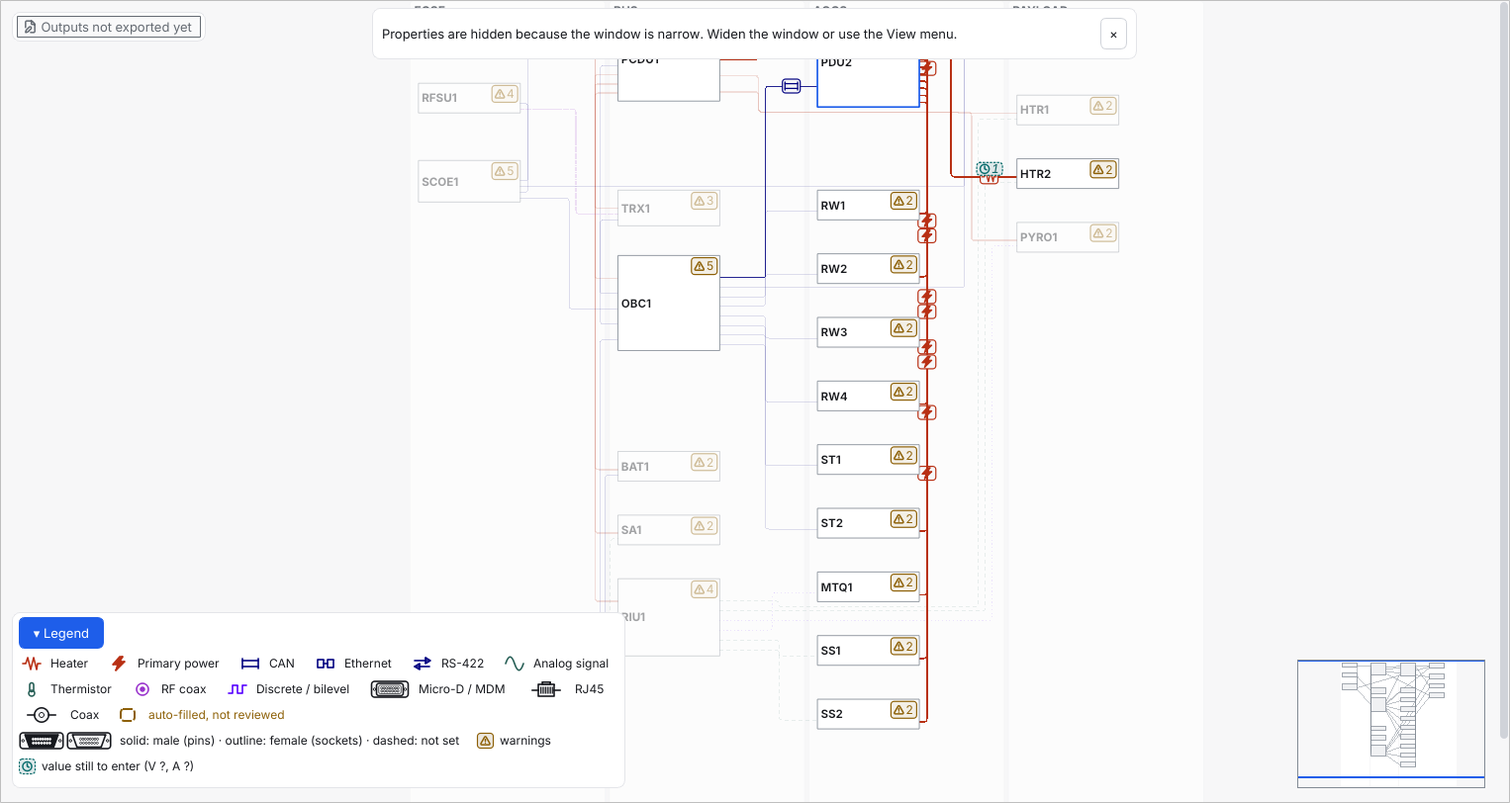
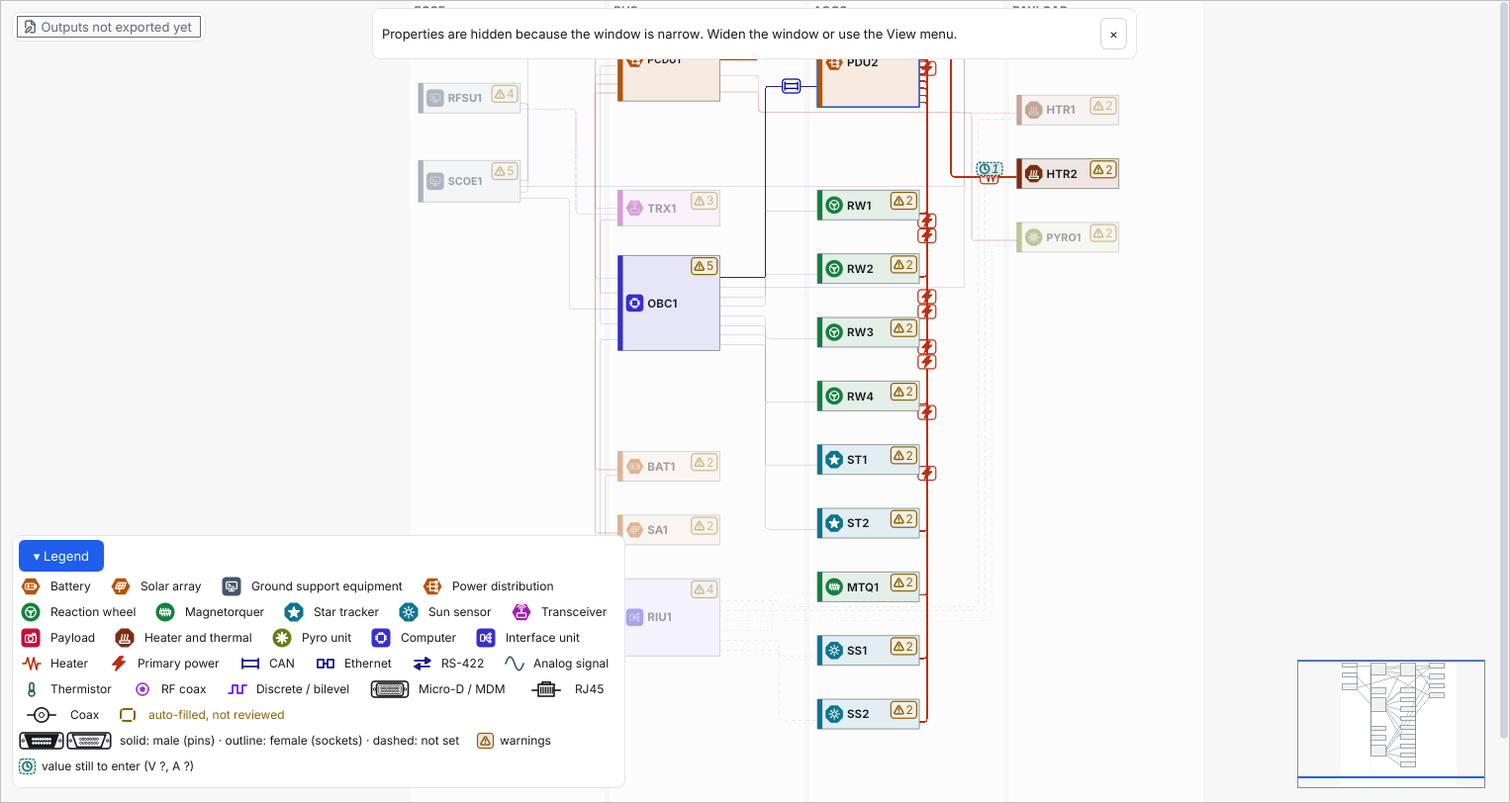
Document the device looks: manual page, key to the pictures, guide, changelog
New page "Telling devices apart" with the key to the pictures and colours, a
close-up of four cards and the rules the tool reads the kind by; the user guide,
the draw-the-design page, the flatsat page, the developer notes and the pictures
made by tools.flatsat_screenshots follow. Changelog entry under Unreleased.

Claude-Session: https://claude.ai/code/session_01K7PmjFJdKvkUGQzZA5G9xT

diff --git a/HarnessDesignStudio/src/harness_design_studio/resources/guide/index.html b/HarnessDesignStudio/src/harness_design_studio/resources/guide/index.html
@@ -87,7 +87,7 @@ harness-design-studio new wheel-link --template first-steps</code></pre>
 <p>Switching modes never changes your data.</p>
 <h3 id="reading-a-dense-diagram">Reading a dense diagram</h3>
 <p>A system with many devices has many links. The editor makes them readable in these ways:</p>
-<ul><li><strong>Pictures tell the kinds apart.</strong> A link carries the picture of its kind: a bolt for power, a ground symbol, a bus with end stops for CAN, two arrows for a differential pair (RS-422, LVDS), a bus with drops for RS-485, a node with branches for SpaceWire, two boxes for Ethernet, a sine wave for an analog signal, a square wave for a discrete signal, a spark for a pyro line, a ring for RF coax. A link with twisted-pair signals is drawn as two lines, a redundant link is dashed. The legend (button at the bottom left of the diagram; <strong>View &gt; Show legend</strong>) shows the pictures the project uses.</li><li><strong>Connectors are drawn as they look</strong>: a flange with screw holes and the shell in front of it: a tapered D for a D-sub, a rounded block for a Micro-D, a round shell, an RJ45 plug, a coax ring. The size and the dots follow the pin count, which is also written as a number. <strong>Gender is black or white</strong>: a male connector (pins) is drawn solid, a female connector (sockets) as an outline, and a connector whose gender is not set with a dashed outline; the legend says so. The harness drawings and the mating matrix state the gender of every cable connector in words. In Expert mode a dashed line splits the device into a left side and a darker right side (ports sit on the edge of their side), and every port reads from its edge inwards: the designator (J01), the connector picture and the pin count. In Guided mode a device shows its connectors as small pictures. What a link carries is drawn on the link.</li><li><strong>Numbers appear when they exist.</strong> A power link shows e.g. <code>28 V · 5 A</code> beside its picture, but only what somebody entered; nothing is filled in. In a diagram of more than 30 links the numbers show for the selected, focused or hovered link; <em>View &gt; Show all link labels</em> shows them everywhere. Hover a link to read its name, type, values and ends in words.</li><li><strong>Click a device or a link.</strong> Only its links stay in full colour; everything else fades. Click the empty background or press Escape to see everything again. This is the quickest way to answer "what is connected to this?".</li><li><strong>Show</strong> (the list at the right end of the Model tab bar, <em>All interfaces</em> by default; <strong>More &gt; Show only</strong> for the Systems engineer) fades everything except one signal class, one connector or one bundle. It can be combined with a selection.</li><li><strong>Links run in lines.</strong> Each link leaves on the edge that faces the device at its other end, goes sideways into the gutter between lanes, runs up or down in its own track, and enters the other device sideways. Links between the same two lanes run side by side, ordered so that they cross as little as possible.</li><li><strong>Arrange diagram</strong> (View menu, Ctrl+Shift+L, or the button at the right end of the Model tab bar; <strong>More</strong> for the Systems engineer) puts the devices in order and keeps room for each one: a device with many connectors is tall in Expert mode, and the devices around it make way. One undo step restores the old positions.</li></ul>
+<ul><li><strong>Pictures tell the kinds apart.</strong> A link carries the picture of its kind: a bolt for power, a ground symbol, a bus with end stops for CAN, two arrows for a differential pair (RS-422, LVDS), a bus with drops for RS-485, a node with branches for SpaceWire, two boxes for Ethernet, a sine wave for an analog signal, a square wave for a discrete signal, a spark for a pyro line, a ring for RF coax. A link with twisted-pair signals is drawn as two lines, a redundant link is dashed. The legend (button at the bottom left of the diagram; <strong>View &gt; Show legend</strong>) shows the pictures the project uses.</li><li><strong>Devices look like what they are.</strong> A device carries the picture of its kind in a badge at the left of its header (a cell for a battery, a wheel, a chip for a computer, a star for a star tracker, a dish for an antenna, a plug for ground support ...), a band of the colour of its family down its left edge, and a badge shape (square, circle, hexagon or octagon) for the family; zoomed out, a box has the same band and badge and a faint tint, so a diagram of 23 devices can be told apart at a glance. The tool reads the kind from the name of the device, then its ID (<code>BAT1</code>), its subsystem and the links it carries; a device it cannot place stays a plain outlined box. The tooltip and the Inspector say it in words (<em>Looks like: Battery (from the name Battery)</em>), and the legend lists the kinds in the diagram; to change a look, rename the device. Nothing is stored in the project and no written file changes (<code>docs/user-manual/telling-devices-apart.md</code>).</li><li><strong>Connectors are drawn as they look</strong>: a flange with screw holes and the shell in front of it: a tapered D for a D-sub, a rounded block for a Micro-D, a round shell, an RJ45 plug, a coax ring. The size and the dots follow the pin count, which is also written as a number. <strong>Gender is black or white</strong>: a male connector (pins) is drawn solid, a female connector (sockets) as an outline, and a connector whose gender is not set with a dashed outline; the legend says so. The harness drawings and the mating matrix state the gender of every cable connector in words. In Expert mode a dashed line splits the device into a left side and a darker right side (ports sit on the edge of their side), and every port reads from its edge inwards: the designator (J01), the connector picture and the pin count. In Guided mode a device shows its connectors as small pictures. What a link carries is drawn on the link.</li><li><strong>Numbers appear when they exist.</strong> A power link shows e.g. <code>28 V · 5 A</code> beside its picture, but only what somebody entered; nothing is filled in. In a diagram of more than 30 links the numbers show for the selected, focused or hovered link; <em>View &gt; Show all link labels</em> shows them everywhere. Hover a link to read its name, type, values and ends in words.</li><li><strong>Click a device or a link.</strong> Only its links stay in full colour; everything else fades. Click the empty background or press Escape to see everything again. This is the quickest way to answer "what is connected to this?".</li><li><strong>Show</strong> (the list at the right end of the Model tab bar, <em>All interfaces</em> by default; <strong>More &gt; Show only</strong> for the Systems engineer) fades everything except one signal class, one connector or one bundle. It can be combined with a selection.</li><li><strong>Links run in lines.</strong> Each link leaves on the edge that faces the device at its other end, goes sideways into the gutter between lanes, runs up or down in its own track, and enters the other device sideways. Links between the same two lanes run side by side, ordered so that they cross as little as possible.</li><li><strong>Arrange diagram</strong> (View menu, Ctrl+Shift+L, or the button at the right end of the Model tab bar; <strong>More</strong> for the Systems engineer) puts the devices in order and keeps room for each one: a device with many connectors is tall in Expert mode, and the devices around it make way. One undo step restores the old positions.</li></ul>
 <p>Zoomed far out, a device shows its ID and each kind of link its own dash pattern and a small picture; zoom in to see pictures and numbers.</p>
 <h3 id="marks-on-the-diagram">Marks on the diagram</h3>
 <ul><li><strong>Problems, warnings, values to enter, not checked.</strong> A device or link that has open findings shows a small badge with an icon and a count: problems, warnings, values still to enter (<em>V ? · A ?</em> on a power link), and <em>not checked</em>. Click a badge to select the object; its problems are in the Problems list. Hover a badge to read what it counts. Before the first check has finished every object shows <em>not checked</em>, so a clean card is never mistaken for a passed one.</li><li><strong>Locks.</strong> An object that a released harness holds shows a lock and the harness and revision (<em>W001 A</em>), and a faint tint. The tooltip says who locks it and what stays editable.</li><li><strong>Auto-filled.</strong> A card with connectors the tool chose shows a dashed <em>n auto</em> chip, in Guided mode too; hover it to read why they were chosen and that nobody has confirmed them yet.</li><li><strong>State of the harnesses.</strong> A chip in the top left of the diagram says <em>Harnesses out of date</em>, <em>not generated yet</em>, <em>Outputs out of date</em>, <em>not exported yet</em> or <em>up to date</em>.</li><li><strong>Card pictures and tags.</strong> A card shows a picture of its kind of device and the number of connectors (<em>12 conn</em>). FLIGHT or GROUND tags are a viewer setting: right-click a device and choose <strong>Tag zone … as</strong>; they are not saved in the project.</li></ul>

diff --git a/HarnessDesignStudio/docs/user-manual/telling-devices-apart.md b/HarnessDesignStudio/docs/user-manual/telling-devices-apart.md
@@ -1,0 +1,84 @@
+# Telling devices apart
+
+This page is about what a device looks like on the block diagram. Every device card has a picture of the kind of equipment it is (a battery, a reaction wheel, a computer ...), a colour for the family of that kind and a shape for the badge the picture sits in. You do not set any of it: the tool reads it from the name of the device. Nothing is stored in the project, and no written file changes (the block diagram that `export` writes, the exported picture of **Export diagram**, every output file and the model hash are as they were).
+
+## Contents
+
+- [Before you start](#before-you-start)
+- [What you see](#what-you-see)
+- [The key to the pictures](#the-key-to-the-pictures)
+- [How the tool decides what a device is](#how-the-tool-decides-what-a-device-is)
+- [Where the words are](#where-the-words-are)
+- [What it does not do](#what-it-does-not-do)
+- [Common mistakes](#common-mistakes)
+
+## Before you start
+
+- You have a project with a few devices on the diagram ([draw the design](draw-the-design.md)). The `flatsat` example has 23 devices and shows every look but one.
+- Steps in the app are described from the program's own texts and code. They have not been run on a screen (GUI, not run); the pictures below are offscreen renderings of the real editor.
+
+## What you see
+
+- **A card** (zoomed in) has a **badge** at the left of its header with a picture in it, and a **band** of the family colour down its left edge. The ID, the name, the connector row and the marks (problems, locks) are where they were.
+- **The whole diagram** (zoomed out, which is how a project opens) draws each device as a box with its ID. The box has the same band and the same badge, and a faint tint of the family colour, so 23 devices can be told apart at a glance and not only by reading their IDs.
+- A device the tool cannot place keeps a plain outlined box with a grey picture, as before.
+- The colour is never the only sign. The picture tells the kind, the **shape** of the badge (square, circle, hexagon or octagon) tells the family a second time, and the words are in the tooltip, the Inspector and the legend.
+
+![A close-up of four cards of the flatsat: TRX1, OBC1, RW1 and RW2, each with its badge and the band on its left edge](../img/device-looks-close.png)
+
+## The key to the pictures
+
+The legend in the corner of the diagram (**View > Show legend**) lists the kinds of device the project has, with the picture, before the kinds of link and connector. This is the whole set:
+
+![The pictures of all kinds of device with their names](../img/device-looks-kinds.png)
+
+| Family | Colour | Shape | Kinds |
+| --- | --- | --- | --- |
+| Control and data | blue | square | Computer, Interface unit |
+| Power | orange | hexagon | Battery, Solar array, Power distribution |
+| Attitude actuators | green | circle | Reaction wheel, Magnetorquer, Thruster |
+| Sensors | teal | octagon | Star tracker, Sun sensor, Gyro / inertial unit, Sensor |
+| Communication | purple | hexagon | Transceiver, Antenna |
+| Payload | rose | square | Payload |
+| Thermal | brown | octagon | Heater and thermal |
+| Mechanisms and pyro | olive | circle | Pyro unit, Mechanism |
+| Ground support | slate | square | Ground support equipment |
+| Other | none (outline only) | square | Device |
+
+The colours are different in the light and the dark theme (lighter in the dark one) so that each stays readable on the card. Nine colours cannot stay apart for every kind of colour blindness (green and rose, blue and purple come close), which is why the picture and the shape are there too.
+
+## How the tool decides what a device is
+
+The model has no device kind and a project file gains none, so the tool reads it, every time the diagram is drawn, from what the device already says. It tries these clues in order and stops at the first that fits:
+
+1. **The words of the name**: `Reaction wheel 1`, `S-band transceiver`, `Solar array simulator`. A word must be the whole word (or the word with digits after it, `OBC1`, or an ending such as `wheels`): `simulator` is not read as `imu`.
+2. **The letters of the ID** before the first digit: `BAT1` is a battery, `PCDU1` and `PDU2` power distribution, `RW1` a reaction wheel, `ST1` a star tracker, `SS1` a sun sensor, `OBC1-R` a computer. Used when the name says nothing, so a device you renamed to `Unit 7` keeps its look.
+3. **The words of the subsystem** (`power`, `comms`, `thermal` ...), as a coarse hint.
+4. **The kinds of link it carries**, the clue the card's small picture already used: a spark line, RF, mostly power, data. Used only when nothing else says what the device is.
+5. Otherwise it is a plain **Device**.
+
+Inside each step the more specific kind comes first: a star tracker before a sensor, a battery before power distribution, and ground support before power, so that a `Ground power supply` is ground support. The devices that **Edit > Add device** makes (a name such as `Battery 1`, the ID `BAT1`) always get the right look. The table is `KINDS` in `gui/device_kinds.py`, one list in one place.
+
+To change what a device looks like, **rename it** in the Inspector (or the **Device list** tab): the picture and the colour follow at once, and **Undo** takes it back like any other edit. There is no field for the kind: setting it by hand would need a new field in the project file, and that is left to a later decision.
+
+## Where the words are
+
+- **Tooltip.** Point at a card: the first line is `ID: name`, the second `Looks like: Battery (from the name Battery)`.
+- **Inspector.** Select a device: under **Subsystem** a line with the badge and `Looks like: Battery (from the name Battery)`. Its tooltip says how to change it.
+- **Legend.** The kinds of the diagram, each with its picture and its name.
+
+The sentence also says where the look came from: *from the name …*, *from the ID …*, *from the subsystem …*, *from the links it carries*, or *nothing in its name, ID, subsystem or links says what it is*.
+
+## What it does not do
+
+- It does not change the written block diagram (`system/block_diagram.svg`), the PDF and PNG of **Export diagram**, any output file, any project file or the model hash. The looks are drawn on the screen only.
+- It does not look at a part number or the library: only the name, the ID, the subsystem and the links of the device.
+- It does not mean anything for the checks: two devices with the same look are not related, and a wrong look is not an error. Rename the device.
+
+## Common mistakes
+
+- **"Why is my device a battery?"** Its ID starts with `BAT`, or its name has a word of the battery kind. The tooltip says which: *from the ID BAT7*.
+- **"My device is a plain box."** Nothing in its name, ID, subsystem or links is in the table. Rename it with the kind in the name (`Gyro 2`).
+- **Two devices have the same colour.** They are in the same family (a reaction wheel and a magnetorquer are both attitude actuators); the picture and the name tell them apart.
+
+Next: [draw the design](draw-the-design.md), [redundancy and zones](redundancy-and-zones.md)

diff --git a/HarnessDesignStudio/docs/developer/docs-maintenance.md b/HarnessDesignStudio/docs/developer/docs-maintenance.md
@@ -44,7 +44,7 @@ The tutorial `docs/GETTING_STARTED.md` is not generated, but `test_docs.py` runs
 | --- | --- | --- |
 | `docs/ux/qt/*.png` (the editor) | `QT_QPA_PLATFORM=offscreen python -m tools.gui_screenshots` | 26 pictures at 1440 x 900 (light theme): 01 to 13 show the built-in sample (tour, Guided and Expert, connecting, problems, import preview, delete, waiver, palette, dark theme, 150 %); 14 and up show the flatsat example (project tree and inspector, Harness, Lists, Checks, engineering values, plans out of date, export window, released locks, Releases, new revision, new project, import wizard, release dialog). The script waits for the design rule check and for messages to go away, so it takes about a minute. The project path in the status bar is a fixed folder under the system temp folder, so that runs match. In repeated runs on the machine used, 24 of the 26 files came out identical every time; 06 and 07 now and then differ by about a hundred pixels of one link route. Check `git diff --stat` and keep only meaningful changes. The status bar shows the time of the last check, so every file differs from the committed one by a few pixels on every run; only `02-guided-main.png` is used by a document (the tutorial), and it was redone for 1.7.0 and again after milestone M1 of D-172 (the left tab is now *Device list*, not *Units*; the other 25 files were restored to the versions made by 1.3.0 and still show *Units* and *Add unit*, which is history). The script forces the Electrical / AIT engineer role (an empty settings file has no role yet, and the program asks) and goes to the Diagram, so all 26 pictures show the Electrical / AIT engineer role; it clears the status bar's time of the last check before each picture. |
 | `docs/ui/screenshots/before/*.png` and `after/*.png` (the UI overhaul: release 1.2.0 and 1.3.0) | `QT_QPA_PLATFORM=offscreen python -m tools.ui_screenshots OUT` (`OUT` is `docs/ui/screenshots/after`; never run it without a folder, it would overwrite `before`) | Every area, tab, panel, menu and dialog on the flatsat example at 1440 x 900, plus narrow, wide, scaled, empty and stress variants, each in the light and the dark theme (`_light`, `_dark` in the name): 87 files in `before`, 103 in `after` when this page was checked. The script runs each theme and part in a process of its own; how long it takes was not timed for this page. `before` is the record of 1.2.0 made with that version's editor: do not refresh it. The comparison text is [`../ui/BEFORE_AFTER.md`](../ui/BEFORE_AFTER.md) (not generated; edit it when `after` changes). |
-| `docs/img/flatsat-overview.png`, `flatsat-focus.png` | `QT_QPA_PLATFORM=offscreen python -m tools.flatsat_screenshots` | The diagram only (the docks are hidden), 1600 x 1000 window, legend open. Two runs gave identical files. |
+| `docs/img/flatsat-overview.png`, `flatsat-focus.png`, `device-looks-close.png`, `device-looks-kinds.png` | `QT_QPA_PLATFORM=offscreen python -m tools.flatsat_screenshots` | The diagram only (the docks are hidden), 1600 x 1000 window, legend open (not in the close-up). The close-up shows four cards (TRX1, OBC1, RW1, RW2) at about 160 %; the key to the looks of devices is painted with the real painters (`gui/device_looks.py`) in the light theme. The last two are for `user-manual/telling-devices-apart.md`; redraw all four when a look, a colour or a kind changes. |
 | `docs/img/edit-wire-tab.png`, `docs/img/devices-tab.png`, `docs/img/connectors-tab.png` | `QT_QPA_PLATFORM=offscreen python -m tools.tab_screenshots` | The whole window (1760 x 1000, light theme, as a Systems engineer, because in the Electrical / AIT engineer role the narrow side panel elides the tab names and cuts the form): the first two on the flatsat example, for `user-manual/edit-a-wire.md` and `user-manual/define-a-device.md`; the third on a harness made by hand in a new project, for `user-manual/build-a-harness-by-hand.md`. The status bar's time of the last check is cleared before each picture, so a second run gives the same bytes. Redraw them when the tab changes. |
 | `docs/img/next-step-new-project.png`, `next-step-fix-problems.png`, `next-step-export.png`, `systems-engineer.png`, `electrical-engineer.png`, `accessories-tab.png`, `export-window.png`, `export-window-done.png` | `QT_QPA_PLATFORM=offscreen python -m tools.tab_screenshots` (about 3 minutes on a quiet machine) | Windows of 1440 x 900 (the accessories tab 1760 x 1000, the two export windows 1000 x 720) on the generated tutorial project `first-steps`; the fix-problems picture leaves the parts unapproved and the others approve them first. For `user-manual/choose-your-role.md` (the three Next step pictures and the windows of the two roles), `user-manual/enter-the-build-data.md` (Accessories tab) and `user-manual/export-the-outputs.md` (the Export window before and after an export with the PDF drawings). Redo them when the Next step page, the roles, the Accessories tab or the Export window change. They were all redone after milestone M1 of D-172: the Systems engineer role has the problem notices off, so the status chip and the badges are gone from the Simple pictures, and the tab is *Device list* in the Full picture. After milestone M2 (D-173) only the Full window (now `electrical-engineer.png`) was redone, because the project tree has a *Connections* group; the others came out pixel for pixel the same. After milestone M5 (D-176) the two role windows were renamed (`simple-workspace.png` became `systems-engineer.png`, `full-workspace.png` became `electrical-engineer.png`) and redone together with the three Next step pictures (the page has the links *Library…* and *Show everything*) and `problem-notices-setting.png` (the View menu has the entry *Role*). `python -m tools.tab_screenshots OUT roles` makes just these. |
 | `docs/img/role-question.png`, `docs/img/role-menu.png` | `QT_QPA_PLATFORM=offscreen python -m tools.tab_screenshots` (also on its own: `... OUT roles`) | The window *Who are you working as?* (its own size) and the View menu with the Role submenu open (the two menus put side by side in one picture). For `user-manual/choose-your-role.md`. Redo them when the question, its texts or the View menu change. |

diff --git a/HarnessDesignStudio/CHANGELOG.md b/HarnessDesignStudio/CHANGELOG.md
@@ -4,6 +4,10 @@ Versions follow semantic versioning. Every project file records the tool version
 
 ## Unreleased
 
+### Changed for you to know
+
+- **Devices are easier to tell apart on the block diagram (owner feedback: *it would help if you could make different devices visually/graphically more distinguishable*).** A device card now has the picture of its kind in a badge at the left of its header (20 pictures: battery, solar array, power distribution, reaction wheel, magnetorquer, thruster, star tracker, sun sensor, gyro, sensor, transceiver, antenna, payload, heater, pyro unit, mechanism, computer, interface unit, ground support and the plain device), a band of the colour of its family down its left edge and a badge shape (square, circle, hexagon or octagon) for the family. There are nine families with a colour each, in the light and the dark theme. A project opens zoomed out, where a device was a plain box with its ID: the box now has the same band and badge and a faint tint, so the 23 devices of the `flatsat` example can be told apart at a glance. Colour is never the only sign: the picture and the shape say the same, and the tooltip (*Looks like: Reaction wheel (from the name Reaction wheel 1)*), the **Inspector** (under **Subsystem**) and the **legend** (it lists the kinds of device the diagram has, first) say it in words. The kind is **read, not stored**: the tool takes it from the words of the name, then the letters of the ID (`BAT1`), the subsystem and, last, the links the device carries (the clue the card's small grey picture already used), and a device it cannot place keeps the plain outlined box. To change a look, rename the device. There is no field for the kind, no new project file and no new key: the files of a project, the model hash, every written output and the block diagram that `export` and **Export diagram** write are as they were (`python -m tools.output_hashes --check docs/ui/OUTPUT_HASHES_BASELINE.json` and `python -m tools.numbers_snapshot --check tests/fixtures/numbers/snapshot.json` print `identical`); the looks are drawn on the screen only. The small grey picture of the card (`describe.unit_glyph`, 11 pictures) is replaced by the new badge. A new page, [Telling devices apart](docs/user-manual/telling-devices-apart.md), has the key to the pictures and the colours. **Limits:** nobody looked at this on a real display (offscreen renderings and tests only); nine colours cannot all stay apart for every kind of colour blindness (green and rose, blue and purple come close), which is why the picture and the shape are there too; the written block diagram does not show the looks; the kind cannot be set by hand.
+
 ## 1.15.0 (2026-11-05; not a statement of compliance)
 
 Version 1.15.0 is the **choice-and-explanation release** (decision D-198). It carries on from the final audit of the transparency work (`docs/transparency_final_audit.md`) and from the leftovers of 1.14.0. Three more things became models you can choose, each with today's method as the default: how pins are fitted on a connector, which connector the tool picks for an interface and what the labels read. `explain` now shows how the gauge of a wire was chosen and names the page of the model behind a number. Two assumptions that were built into the program (spare contacts and an allowance on the wire in the bill of materials) are settings now, and three design rules that cited no assumption now cite one. The as-built report can have a tolerance on the lengths, and a release can, if you want, require the as-built records. The editor can write the open data from the Export window, shows the model page in the Explain window and the Why tab, lets you drag the line of an interface and keeps Quick mode calmer, and `diagram/marks.json` no longer holds marks of things you deleted. The calculations, the 39 design rules and the numbers are as in 1.14.0 unless you choose another setting.

diff --git a/HarnessDesignStudio/docs/developer/agent/gui.md b/HarnessDesignStudio/docs/developer/agent/gui.md
@@ -16,7 +16,7 @@ Window (`gui/main_window.py`): the navigation rail (Next step, Home, Model, Chec
 - Never name a widget attribute `palette` (it hides `QWidget.palette()`).
 - Panels that are not visible refresh lazily (on show). Tests that read a tab's widgets must switch to that tab first (`tests/gui_helpers.py`: `show_problems`, `win.show_interfaces()`, `win.go_to(name)`; `add_unit` and `pick_connect_type` do what the retired Palette buttons did).
 - Dialog hooks (`run_dialog`, `ask_folder`, `ask_text`, `ask_choice`, `ask_file`) exist so tests can drive the UI without blocking.
-- Diagram drawing rules that need no Qt live in `core/routing.py` (edge a link leaves from, orthogonal trunk routing of all links, focus of a selection) and `core/describe.py` (link values, connector family from the part); the pictures are drawn in `gui/glyphs.py` and keyed in `gui/legend.py` — show meaning with pictures, not letters or raw text; `tests/test_gui_readability.py` checks them on the flatsat example. Unit room (`edit.unit_footprints`) is the taller of the guided and expert heights, so units never overlap in either mode; `tools/build_examples.py` arranges the examples with it. Pictures for `docs/FLATSAT_EXAMPLE.md`: `python -m tools.flatsat_screenshots`.
+- Diagram drawing rules that need no Qt live in `core/routing.py` (edge a link leaves from, orthogonal trunk routing of all links, focus of a selection) and `core/describe.py` (link values, connector family from the part); the pictures are drawn in `gui/glyphs.py` and keyed in `gui/legend.py` — show meaning with pictures, not letters or raw text; `tests/test_gui_readability.py` checks them on the flatsat example. Unit room (`edit.unit_footprints`) is the taller of the guided and expert heights, so units never overlap in either mode; `tools/build_examples.py` arranges the examples with it. Pictures for `docs/FLATSAT_EXAMPLE.md`: `python -m tools.flatsat_screenshots`. **Device looks (REQ-GUI-20):** what a device looks like comes from its kind, which is never stored (a field would change the model hash): `gui/device_kinds.py` (no Qt) is the one table, `KINDS` in priority order, that reads the kind from the name, then the ID letters, the subsystem and, last, `describe.unit_glyph` (the links); `gui/device_looks.py` draws the pictogram of each kind (QPainter paths in a 16 x 16 box), the badge (a shape by family, the accent of the token `device.<family>` filled, the ink `accent.text`), the band on the left edge, the tint of a box seen from far away, the inspector's line and the legend's badges. The canvas has three hooks and nothing else (`UnitItem.facts().looks`, `device_looks.paint_header` and `paint_overview`, the line `device_kinds.sentence` in the tooltip); the header is not tinted because the small muted text on it is 4.5:1 only on the plain header. A new kind: one `Kind` in `KINDS`, one function in `PICTOGRAMS`, a row in the table of `docs/user-manual/telling-devices-apart.md`, a test row in `tests/test_ui_device_looks.py`. A new family needs two tokens (light and dark) that pass `tests/test_tokens.py`.
 - Keep edits under 100 ms at stress size: use the Delta, never rebuild the whole scene for a local change, and never call `update()`/`prepareGeometryChange()` on the lane (zone) items or the overview map for a local edit (they are as tall as the diagram; one such call repaints every item). `tests/test_gui_perf.py` guards this by counting dirty regions.
 
 ## Roles and the Next step page (1.7.0 D-171, roles D-176)

diff --git a/HarnessDesignStudio/docs/developer/tools.md b/HarnessDesignStudio/docs/developer/tools.md
@@ -33,7 +33,7 @@ A test fails when one of these outputs is stale. The table of outputs and tests 
 | --- | --- |
 | `gui_screenshots` | Renders 26 screenshots of the real editor (offscreen, as the Electrical / AIT engineer) into `docs/ux/qt`: the sample project and the views and dialogs on the flatsat example (about a minute) |
 | `ui_screenshots` | Pictures of every area, tab, panel, menu and dialog of the editor on the flatsat example, in the light and the dark theme (offscreen), for the UI overhaul: `python -m tools.ui_screenshots OUT`. The sets are `docs/ui/screenshots/before/` (release 1.2.0) and `docs/ui/screenshots/after/` (release 1.3.0), compared in [`../ui/BEFORE_AFTER.md`](../ui/BEFORE_AFTER.md). **Always give a folder:** without one the script writes into `docs/ui/screenshots/before/`, the 1.2.0 baseline. It runs each theme and part (`--theme light\|dark`, `--part main\|extra`) in a process of its own, because two themes in one process crash Qt's offscreen platform; one picture that fails is listed at the end and does not stop the others |
-| `flatsat_screenshots` | Pictures of the flatsat diagram in the editor (overview and one device in focus), for `docs/FLATSAT_EXAMPLE.md` and the README |
+| `flatsat_screenshots` | Pictures of the flatsat diagram in the editor (overview and one device in focus), for `docs/FLATSAT_EXAMPLE.md` and the README, and the close-up and the key of the looks of devices for `docs/user-manual/telling-devices-apart.md` |
 | `tab_screenshots` | Twenty-one pictures for the user manual, in `docs/img` (`python -m tools.tab_screenshots [OUT]`, offscreen): the *Edit wire* tab with a wire selected, the *Devices* tab and the *Connectors* tab of a harness made by hand (1760 x 1000, Systems engineer role), the three Next step pictures and the windows of the two roles, `systems-engineer.png` and `electrical-engineer.png` (1440 x 900), the *Accessories* tab, and the Export window before and after an export (1.7.0), and, since milestone M1 of D-172, the *Add device* window with a name typed and the *View* menu with *Show problem notices* (`add-device-dialog.png`, `problem-notices-setting.png`), and, since milestone M2 (D-173), the *Link connectors* window and the diagram with two connections beside the *Connections* group of the tree (`link-connectors-window.png`, `connections-diagram.png`, on a small three-device project with named pins built in the tool), and, since milestone M5 (D-176), the question of the first start and the View menu with the Role submenu (`role-question.png`, `role-menu.png`; `python -m tools.tab_screenshots OUT roles` makes only the pictures that show a role), and, since milestones M3 and M4, the *Edit all wires* window and a connection with the connector boxes at its ends (`edit-all-wires-window.png`, `connections-ends.png`; `... OUT editing` makes these two and `connectors-tab.png`) and the library window and the *Save to library* window (`library-window.png`, `library-save-window.png`; `... OUT library`); the last run took about 7 minutes on a machine that was also busy with other work |
 | `ux_screenshots` | Screenshots of the prototype's key screens into `docs/ux/screens` (needs Playwright; history only) |
 

diff --git a/HarnessDesignStudio/docs/guide/USER_GUIDE.md b/HarnessDesignStudio/docs/guide/USER_GUIDE.md
@@ -209,6 +209,7 @@ Switching modes never changes your data.
 A system with many devices has many links. The editor makes them readable in these ways:
 
 - **Pictures tell the kinds apart.** A link carries the picture of its kind: a bolt for power, a ground symbol, a bus with end stops for CAN, two arrows for a differential pair (RS-422, LVDS), a bus with drops for RS-485, a node with branches for SpaceWire, two boxes for Ethernet, a sine wave for an analog signal, a square wave for a discrete signal, a spark for a pyro line, a ring for RF coax. A link with twisted-pair signals is drawn as two lines, a redundant link is dashed. The legend (button at the bottom left of the diagram; **View > Show legend**) shows the pictures the project uses.
+- **Devices look like what they are.** A device carries the picture of its kind in a badge at the left of its header (a cell for a battery, a wheel, a chip for a computer, a star for a star tracker, a dish for an antenna, a plug for ground support ...), a band of the colour of its family down its left edge, and a badge shape (square, circle, hexagon or octagon) for the family; zoomed out, a box has the same band and badge and a faint tint, so a diagram of 23 devices can be told apart at a glance. The tool reads the kind from the name of the device, then its ID (`BAT1`), its subsystem and the links it carries; a device it cannot place stays a plain outlined box. The tooltip and the Inspector say it in words (*Looks like: Battery (from the name Battery)*), and the legend lists the kinds in the diagram; to change a look, rename the device. Nothing is stored in the project and no written file changes (`docs/user-manual/telling-devices-apart.md`).
 - **Connectors are drawn as they look**: a flange with screw holes and the shell in front of it: a tapered D for a D-sub, a rounded block for a Micro-D, a round shell, an RJ45 plug, a coax ring. The size and the dots follow the pin count, which is also written as a number. **Gender is black or white**: a male connector (pins) is drawn solid, a female connector (sockets) as an outline, and a connector whose gender is not set with a dashed outline; the legend says so. The harness drawings and the mating matrix state the gender of every cable connector in words. In Expert mode a dashed line splits the device into a left side and a darker right side (ports sit on the edge of their side), and every port reads from its edge inwards: the designator (J01), the connector picture and the pin count. In Guided mode a device shows its connectors as small pictures. What a link carries is drawn on the link.
 - **Numbers appear when they exist.** A power link shows e.g. `28 V · 5 A` beside its picture, but only what somebody entered; nothing is filled in. In a diagram of more than 30 links the numbers show for the selected, focused or hovered link; *View > Show all link labels* shows them everywhere. Hover a link to read its name, type, values and ends in words.
 - **Click a device or a link.** Only its links stay in full colour; everything else fades. Click the empty background or press Escape to see everything again. This is the quickest way to answer "what is connected to this?".

diff --git a/HarnessDesignStudio/docs/ARCHITECTURE.md b/HarnessDesignStudio/docs/ARCHITECTURE.md
@@ -98,7 +98,7 @@ The editor (`gui/`) has these parts. The window is a navigation rail (Next step,
 | `gui/next_step.py`, `gui/next_page.py` | the Next step page (1.7.0, D-171): the one next step and the six step lines worked out from the facts of the project (no Qt, `next_step.py`), and the page that shows it and calls back (since 1.9, W1: `NextProblem`, the card of the first open problem with Show, Waive and Approve; a warning never holds the page; the plan behind Approve is `core/part_approval.py`). `gui/roles.py` (no Qt): the roles, `default_role`, `clean_role` and `role_key` (the settings keys of the layout of each role); `gui/role_dialog.py`: the question of the first start. Internal names keep `simple` in the layout keys (`ui/simple/...`) so no layout is lost; everything else says role, systems and electrical |
 | `gui/pages.py`, `gui/settings_page.py`, `gui/licences.py`, `gui/recent.py` | the Home page; the Settings page (Appearance, Editing, Project, Keyboard shortcuts, About, Licences); the licence texts the About page shows; recent projects |
 | `gui/controller.py` | `EditorController`: the only object that changes the project |
-| `gui/canvas.py`, `gui/glyphs.py`, `gui/legend.py`, `gui/canvas_state.py`, `gui/canvas_badges.py` | the diagram canvas (zone lanes, devices, links, overview map); pictograms for links and connectors; the legend overlay; the index of problems, pending values and locks per object; the badges and the corner chip |
+| `gui/canvas.py`, `gui/glyphs.py`, `gui/device_kinds.py`, `gui/device_looks.py`, `gui/legend.py`, `gui/canvas_state.py`, `gui/canvas_badges.py` | the diagram canvas (zone lanes, devices, links, overview map); pictograms for links and connectors; the kind of each device (read from its name, ID, subsystem and links, never stored) and its picture, colour and badge shape; the legend overlay; the index of problems, pending values and locks per object; the badges and the corner chip |
 | `gui/library_window.py` | the library window (D-175): a non-modal top-level window over the controller, with the list of the library folder (read in a helper thread by `JobRunner`), the preview, *Add to project*, and `SaveToLibraryDialog`; its folder is the setting `library/folder` (`MainWindow.library_folder`, `set_library_folder`, File > Library folder…), its size and place `library/geometry` |
 | `gui/link_dialog.py`, `gui/connector_picker.py`, `gui/canvas_links.py` | the window *Link connectors* (the pairs proposed by `core/links.py`, by pin number or from a pasted table by `core/pairing.py`, accepted and changed by the person; *Add a connector…* with the picker of `core/first_connector.py`; also edits the pairs of a connection; the question before *Create harness*) and the connection lines of the diagram with the derived interface under the connector names (and, since 1.8.0, the connector boxes at the two ends with View > Show connectors on connections or in Expert mode, drawn only then) |
 | `gui/project_tree.py`, `gui/inspector.py`, `gui/why_panel.py` | the project tree, the inspector (fields, used in, lock banner) and the Why panel |

diff --git a/HarnessDesignStudio/docs/user-manual/README.md b/HarnessDesignStudio/docs/user-manual/README.md
@@ -19,6 +19,7 @@ This manual has one page for each job you do with Harness Design Studio, written
 | make a quick block diagram of a set-up, with no checks and no paperwork, and save it as a picture | [Make a block diagram in five minutes](quick-diagram.md) |
 | start a project and draw devices and links | [Draw the design](draw-the-design.md) |
 | join a connector of one device to a connector of another, pin by pin, from the names on the pins, and check the result | [Connect two connectors](connect-two-connectors.md) |
+| understand the pictures and colours of the devices on the diagram, and what makes a device look like a battery or a wheel | [Telling devices apart](telling-devices-apart.md) |
 | add a backup chain, or put devices in other lanes | [Redundancy and zones](redundancy-and-zones.md) |
 | have the tool make connectors, pins and wires | [Generate harnesses](generate-harnesses.md) |
 | understand an error or a warning, or waive one | [Read and fix problems](read-and-fix-problems.md) |
@@ -53,6 +54,7 @@ The numbers follow the order of the work. The first page is the one the editor s
 1. [Choose your role](choose-your-role.md): Systems engineer, Electrical engineer or AIT engineer (since S9), and what each shows first; the Next step page, one thing to do at a time. The Next step page is from 1.7.0, the roles after it.
 1a. [Make a block diagram in five minutes](quick-diagram.md): Quick mode, a short layout for a quick picture: New project, Add device, Connect, Export diagram (SVG, PDF and PNG); what Quick mode hides and how to leave it.
 2. [Draw the design](draw-the-design.md): start a project; add devices; connect them; guided and expert mode; save.
+2a. [Telling devices apart](telling-devices-apart.md): the picture, colour and shape of each kind of device on the diagram, how the tool reads the kind from the name, where the words are (tooltip, Inspector, legend); nothing is stored or written. Not in a release yet.
 3. [Redundancy and zones](redundancy-and-zones.md): the redundant copy of a device; links between the chains; lanes.
 4. [Generate harnesses](generate-harnesses.md): preview, apply and undo; the independent check; the Harness tab and its "Why" pane; how links are grouped.
 5. [Read and fix problems](read-and-fix-problems.md): errors, warnings and notes; fixes; waivers; `harness-design-studio drc`.

diff --git a/HarnessDesignStudio/docs/user-manual/draw-the-design.md b/HarnessDesignStudio/docs/user-manual/draw-the-design.md
@@ -113,6 +113,7 @@ Switching never changes your data.
 
 - **View > Arrange diagram** puts the devices in order and gives each one room. **Undo** restores the old positions.
 - **Drag the label of a link or a connection** (the small pill on the line) when it hides something you want to read next to it. In a connection you can also drag the connector box at each end, and the vertical piece of the line sideways; the line of an interface (the one the tool routes between two devices) has such a vertical piece too, and it stops short of a device card, so it never runs through one. A thing you moved keeps its place relative to its line when you move the devices, and it is remembered in the project (`diagram/marks.json`; it is not the design: no model hash and no written file changes). **Undo** moves it back; right-click the line and choose **Reset label and line positions** to put it back where the tool had it. When you delete a connection or an interface, what you moved on it is forgotten when you save (an **Undo** of the delete before that brings it back).
+- **Each device has a picture and a colour** that say what kind of equipment it is (a battery, a wheel, a computer ...), read from its name; the legend lists them, and the tooltip and the Inspector say it in words. See [telling devices apart](telling-devices-apart.md).
 - **Click a device or a link** and only its links stay in full colour. Press **Esc** or click the empty background to see everything again.
 - The **Show** list at the right end of the Model tab bar fades everything except one signal class, one connector or one bundle (a harness). As a Systems engineer the same choices are under **More > Show only** above the diagram.
 - **Ctrl+K** (**Search**) lets you type a command or an ID and jump to it.

diff --git a/HarnessDesignStudio/docs/FLATSAT_EXAMPLE.md b/HarnessDesignStudio/docs/FLATSAT_EXAMPLE.md
@@ -33,7 +33,7 @@ That is the whole system at once, and it is busy by nature. Click a device and o
 
 ![The same diagram with PDU2 selected: its links stay in colour, everything else fades](img/flatsat-focus.png)
 
-(The pictures are made by `python -m tools.flatsat_screenshots` from the real editor.)
+Each device carries the picture and the colour of its kind (a battery, a wheel, a chip for the computer ...), read from its name, so the 23 can be told apart at a glance; see [telling devices apart](user-manual/telling-devices-apart.md). (The pictures are made by `python -m tools.flatsat_screenshots` from the real editor.)
 
 ## How the system is wired
 
